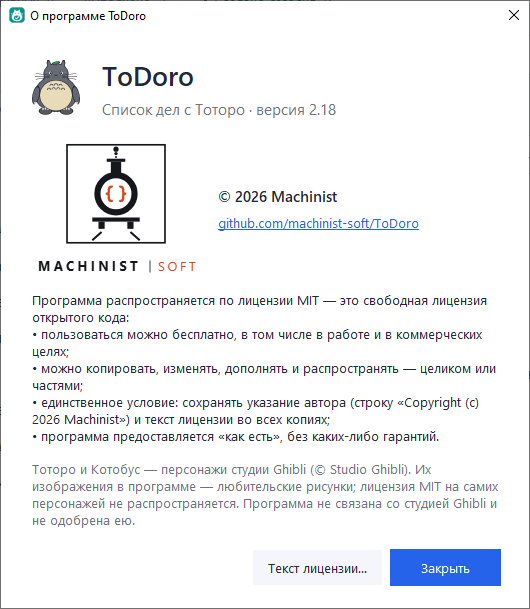
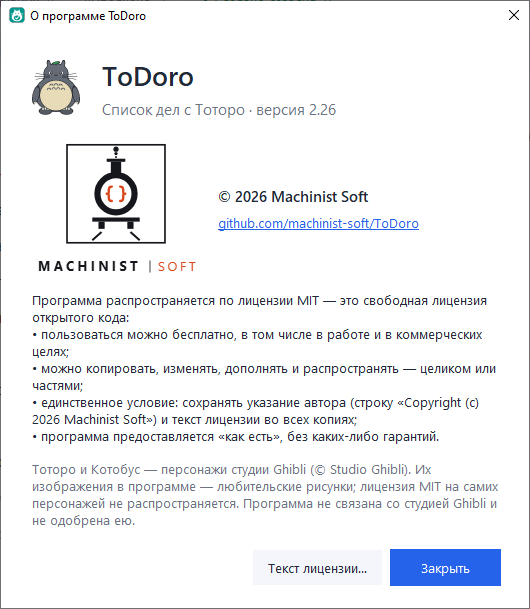
Версия 2.26

diff --git a/tools/make_screenshots.py b/tools/make_screenshots.py
@@ -30,7 +30,7 @@ import db  # noqa: E402
 
 DARK = "dark" in sys.argv[1:]  # python tools/make_screenshots.py dark — только снимок тёмной темы
 # снимки светлой темы (имена файлов без .png); catbus — анимация catbus.gif
-SHOTS = ("list", "lists", "card", "form", "files", "comments", "outlook", "snip", "smart", "board",
+SHOTS = ("list", "lists", "card", "form", "rich", "files", "comments", "outlook", "snip", "smart", "board",
          "matrix", "calendar", "tour", "settings", "about", "whatsnew", "reminders", "phone", "update", "catbus")
 # python tools/make_screenshots.py card files — только эти снимки; без имён — все
 WANTED = {name.removesuffix(".png").removesuffix(".gif") for name in sys.argv[1:]}
@@ -264,6 +264,8 @@ def run():
         grab("form.png")
         app.cancel_edit()
         app.paned.paneconfigure(app.side, width=app.panel_width)
+    if wanted("rich"):  # 4а. Оформленное описание: жирный, списки, таблица — в карточке справа
+        shoot_rich()
     if wanted("files") or wanted("comments"):  # 4б. Вкладки «Файлы» и «Комментарии» в карточке
         shoot_card_tabs()
     app.clear_selection()  # после card/form — дальше снимки без выделенной задачи, как при полной съёмке
@@ -326,6 +328,29 @@ def shoot_lists():
     left, top, _, _ = frame_box()
     grab("lists.png", (left, top, left + 620, menu.winfo_rooty() + menu.winfo_height() + 16))
     menu.close()
+
+
+RICH_BODY = """**Черновик — к четвергу**, *финал* — к понедельнику.
+- 10–12 слайдов, ~~старый прайс~~ — новые цены
+| Тариф | Цена | Срок |
+|---|---|---|
+| **Расширенный** | 90 000 ₽ | 1 месяц |"""
+
+
+def shoot_rich():
+    """Оформленное описание в карточке (описание примера подменяется на время снимка)."""
+    title = "Подготовить презентацию для клиента"
+    task_id = ids[title]
+    old = T.db.get_task(app.conn, task_id)  # (заголовок, срок, напоминание, срочно, важно, описание)
+    T.db.update_task(app.conn, task_id, old[0], old[1], old[2], old[3], old[4], RICH_BODY)
+    app.paned.paneconfigure(app.side, width=520)
+    app.refresh(select_id=task_id)
+    root.update()
+    grab("rich.png")
+    T.db.update_task(app.conn, task_id, *old)
+    app.paned.paneconfigure(app.side, width=app.panel_width)
+    app.refresh(select_id=task_id)
+    app.clear_selection()
 
 
 def shoot_card_tabs():

diff --git a/todoro.py b/todoro.py
@@ -38,9 +38,9 @@ from examples import make_examples
 from help_text import HELP
 
 APP_NAME = "ToDoro"  # ToDo + Totoro
-APP_VERSION = "2.25"  # номер версии — меняется здесь (установщик берёт его отсюда)
+APP_VERSION = "2.26"  # номер версии — меняется здесь (установщик берёт его отсюда)
 APP_YEAR = 2026
-COPYRIGHT_HOLDER = "Machinist"  # автор — имя меняется здесь и в файле LICENSE
+COPYRIGHT_HOLDER = "Machinist Soft"  # автор — имя меняется здесь и в файле LICENSE
 COPYRIGHT = f"© {APP_YEAR} {COPYRIGHT_HOLDER}"
 LICENSE_PATH = Path(__file__).with_name("LICENSE")
 RELEASE_NOTES_PATH = Path(__file__).with_name("RELEASE_NOTES.md")  # окно «Что нового»
@@ -7434,7 +7434,8 @@ class TodoApp:
              "📧 — задача создана из письма Outlook."),
             (lambda: self.side, "Карточка задачи и Тоторо",
              "Справа — карточка выбранной задачи: важность, срочность, срок, напоминание "
-             "и описание. На вкладке «Файлы» можно приложить документы и картинки "
+             "и описание (его можно оформить: жирный, списки, таблицы — кнопками в форме "
+             "задачи). На вкладке «Файлы» можно приложить документы и картинки "
              "(снимок экрана — Ctrl+V), на вкладке «Комментарии» — обсудить задачу. "
              "Пока задача не выбрана, Тоторо подсказывает, с чего начать, "
              "и волнуется о просроченных делах. Кнопка «»» (или Ctrl+B) сворачивает "

diff --git a/help_text.py b/help_text.py
@@ -623,7 +623,7 @@ HELP = [
            "скриншоты, исходный код и сообщения об ошибках."),
     ("li", "ToDoro распространяется по свободной лицензии **MIT**: пользоваться можно "
            "бесплатно, менять и распространять — тоже, нужно лишь сохранять указание автора "
-           "(Machinist) и текст лицензии. Подробнее — **☰ Меню → О программе → Лицензия**."),
+           "(Machinist Soft) и текст лицензии. Подробнее — **☰ Меню → О программе → Лицензия**."),
     ("li", "**Конфиденциальность:** задачи хранятся только у вас (или в общей папке команды) и "
            "никуда не отправляются; в интернет программа обращается лишь к GitHub — проверить "
            "обновления. Подробнее — файл PRIVACY.md на странице проекта."),

diff --git a/tools/build_installer.py b/tools/build_installer.py
@@ -28,8 +28,8 @@ def version_info(version):
     """Описание файла ToDoro.exe (Свойства → Подробно). FileDescription Windows показывает
     как название программы — например, в списке значков в трее, — иначе там «ToDoro.exe»."""
     numbers = tuple((list(map(int, version.split("."))) + [0, 0, 0, 0])[:4])
-    fields = dict(CompanyName="Machinist", FileDescription="ToDoro", FileVersion=version,
-                  InternalName="ToDoro", LegalCopyright="© 2026 Machinist",
+    fields = dict(CompanyName="Machinist Soft", FileDescription="ToDoro", FileVersion=version,
+                  InternalName="ToDoro", LegalCopyright="© 2026 Machinist Soft",
                   OriginalFilename="ToDoro.exe", ProductName="ToDoro", ProductVersion=version)
     strings = ", ".join(f"StringStruct({key!r}, {value!r})" for key, value in fields.items())
     return (f"VSVersionInfo(ffi=FixedFileInfo(filevers={numbers}, prodvers={numbers}, mask=0x3f, "

diff --git a/RELEASE_NOTES.md b/RELEASE_NOTES.md
@@ -3,14 +3,20 @@
 Здесь записано, что менялось от версии к версии. Новые записи — сверху.
 Скачать установщик любой версии: https://github.com/machinist-soft/ToDoro/releases
 
-## Не выпущено
+## 2.26 — 23.10.2026
 
-- Описание задачи можно оформить: жирный, курсив, зачёркнутый, список и нумерованный список — кнопками Ж, К, З, «•», «1.» над полем описания или Ctrl+B / Ctrl+I. В поле оформление видно сразу (значки рядом бледные), а в карточке справа — без значков (GitHub #12).
-- В списке Enter начинает следующий пункт, Enter в пустом пункте заканчивает список.
+### Новое
+
+- Описание задачи можно оформить: жирный, курсив, зачёркнутый, список и нумерованный список. Выделите текст и нажмите кнопку Ж, К, З, «•» или «1.» над полем описания (жирный и курсив — ещё и Ctrl+B / Ctrl+I). В поле оформление видно сразу, а в карточке справа описание показано уже без значков (GitHub #12).
+- В списке Enter начинает следующий пункт, а Enter в пустом пункте заканчивает список.
 - Ячейки, скопированные из Excel, вставляются в описание таблицей; в карточке таблица показана сеткой с линиями.
 - Задача из письма Outlook сохраняет оформление письма: жирный, курсив, списки и таблицы (раньше таблица превращалась в сплошной текст).
-- Ctrl+Z (отменить) и Ctrl+Y или Ctrl+Shift+Z (вернуть) работают при любой раскладке и во всех полях — в том числе в заголовке задачи и поиске, где отмены раньше не было. Отменить можно и из меню по правой кнопке мыши.
+
+### Улучшения
+
+- Ctrl+Z (отменить) и Ctrl+Y или Ctrl+Shift+Z (вернуть) работают при любой раскладке и во всех полях — в том числе в заголовке задачи и в поиске, где отмены раньше не было. Отменить можно и из меню по правой кнопке мыши.
 - Ctrl+Backspace и Ctrl+Delete стирают слово целиком.
+- Автор программы теперь называется Machinist Soft — так написано в окне «О программе», в лицензии и в установщике.
 
 ## 2.25 — 22.10.2026
 

diff --git a/README.md b/README.md
@@ -119,6 +119,13 @@ CSV export / import, e-mail a task, built-in help · one-click updates and an in
 
 ![Календарь / Calendar](docs/screenshots/calendar.png)
 
+### Оформление описания / Formatted description
+
+Жирный, курсив, зачёркнутый, списки и таблицы — кнопками над полем описания или Ctrl+B / Ctrl+I; ячейки из Excel вставляются таблицей, задача из письма Outlook сохраняет его оформление.
+*Bold, italic, strikethrough, lists and tables — with the buttons above the description or Ctrl+B / Ctrl+I; cells pasted from Excel become a table, and a task from an Outlook e-mail keeps its formatting.*
+
+![Оформленное описание / Formatted description](docs/screenshots/rich.png)
+
 ### Умные подсказки / Smart hints
 
 Начните писать задачу — ToDoro предложит похожие названия из ваших прошлых задач; «Сдать отчёт завтра в 10» сам поставит срок и напоминание. Без интернета.
@@ -369,8 +376,8 @@ flowchart TB
 
 ## Лицензия / License
 
-Код — MIT, © 2026 Machinist. См. [LICENSE](LICENSE).
-Code is MIT-licensed, © 2026 Machinist. See [LICENSE](LICENSE).
+Код — MIT, © 2026 Machinist Soft. См. [LICENSE](LICENSE).
+Code is MIT-licensed, © 2026 Machinist Soft. See [LICENSE](LICENSE).
 
 ## Конфиденциальность и безопасность / Privacy and security
 
